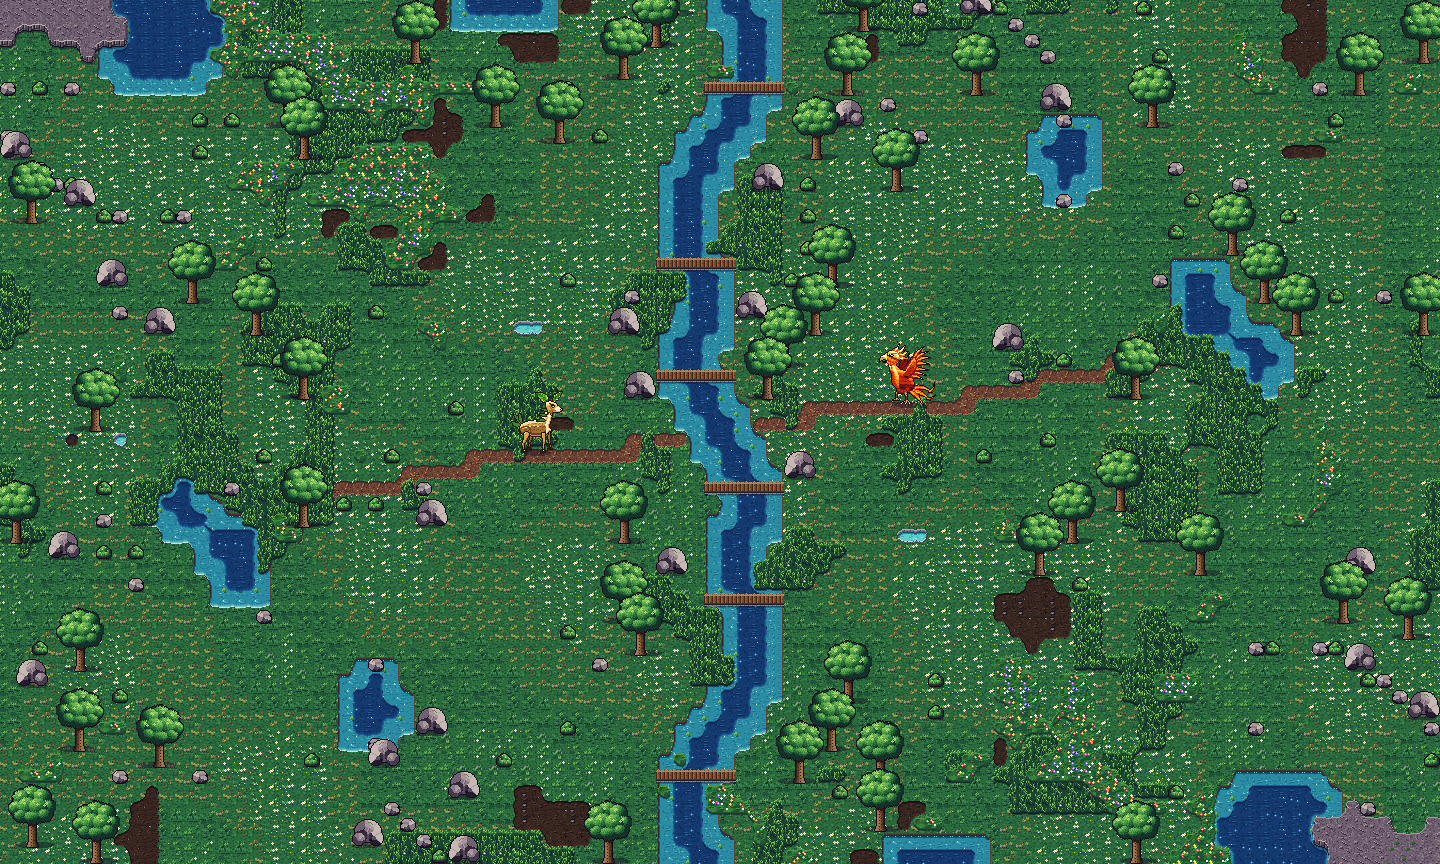
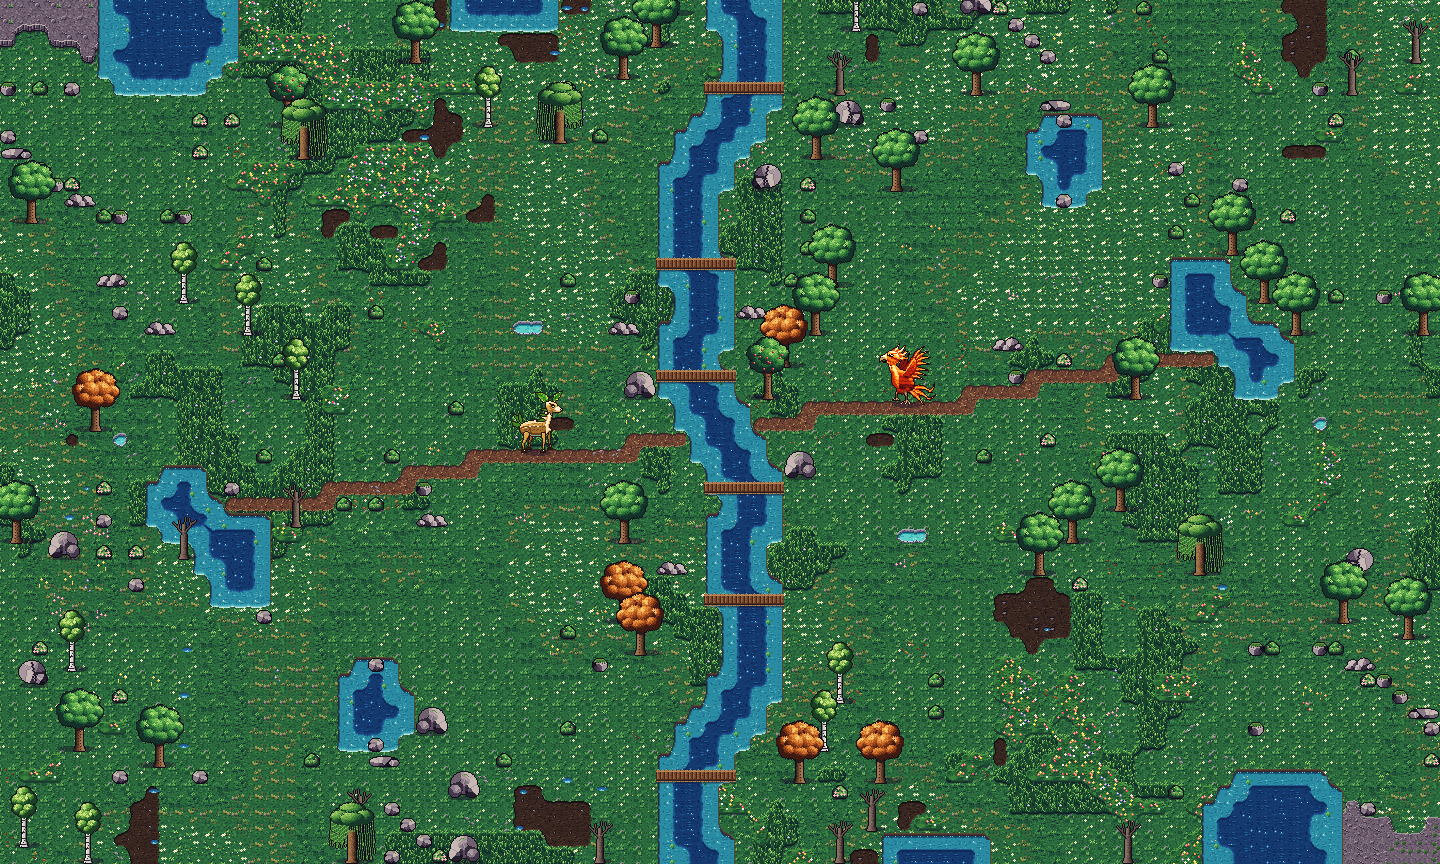
Terrain art: arena previews drawn exactly as the game (drawCorners cells, decals, new props placed)

diff --git a/game/art-src/terrain/arena.py b/game/art-src/terrain/arena.py
@@ -29,16 +29,27 @@ BEASTS = {  # who stands at the starts in each sample, for scale
 def draw_map(m: dict, art: Art) -> Image.Image:
     """Ground in the dual grid from each tile's layer stack (as battlemap.js drawCorners does), then props
     and the two creatures sorted by their feet."""
-    g = [[st[-1][0] for st in row] for row in m["layers"]]
-    stacks = []
-    for y, row in enumerate(m["layers"]):
-        stacks.append([])
-        for x, st in enumerate(row):
-            names = [t for t, v, f in st]
-            if names[-1] in ("bridge", "bridge_v"):
-                names[-1] = bridge_axis(g, x, y)
-            stacks[-1].append(names)
-    canvas = render(None, m["base"], art=art, stacks=stacks)
+    if "corners" in m:  # exactly as the game: battlemap.js drawCorners() for every cell
+        P = T // 2
+        canvas = Image.new("RGBA", (m["cols"] * T + 2 * P, m["rows"] * T + 2 * P), (0, 0, 0, 255))
+        for cy, row in enumerate(m["corners"]):
+            for cx, cell in enumerate(row):
+                for terrain, mask, fill in cell:
+                    edges, fills = art.tiles(terrain)
+                    im = fills[fill % len(fills)] if mask == 15 else edges[mask]
+                    canvas.alpha_composite(im, (cx * T, cy * T))
+        canvas = canvas.crop((P, P, P + m["cols"] * T, P + m["rows"] * T))
+    else:  # work the corner masks out from each tile's layers
+        g = [[st[-1][0] for st in row] for row in m["layers"]]
+        stacks = []
+        for y, row in enumerate(m["layers"]):
+            stacks.append([])
+            for x, st in enumerate(row):
+                names = [t for t, v, f in st]
+                if names[-1] in ("bridge", "bridge_v"):
+                    names[-1] = bridge_axis(g, x, y)
+                stacks[-1].append(names)
+        canvas = render(None, m["base"], art=art, stacks=stacks)
     things = []
     for p in m["props"]:
         if p["id"] not in PROPS:
@@ -78,6 +89,8 @@ def decal_image(did, v):
         from decals import DECALS
     except ImportError:
         return None
+    if did not in DECALS:
+        did = "decal_" + did
     if did not in DECALS:
         return None
     if did not in _decals:
